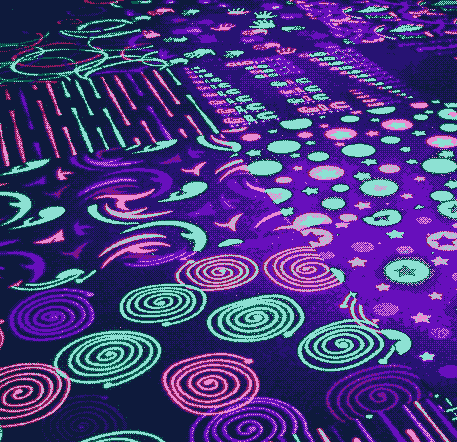
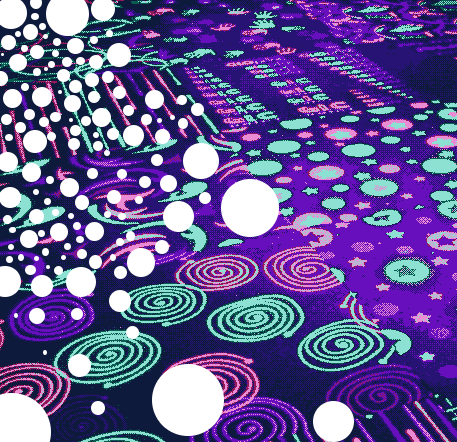
shrine idol and amazification

diff --git a/theme/chat-shrine.css b/theme/chat-shrine.css
@@ -6,21 +6,37 @@
   --color-compliment-dark: #F19181;
 }
 
+* {
+  margin: 0;
+  padding: 0;
+}
+
 html,
 body {
   color: #fff !important;
   text-align: center;
   background-color: #000;
-  background-image: url(images/chat-shrine-background.png);
+  font-size: 1.5rem;
+  line-height: 1.5rem;
+  font-family: 'Codystar';
+  background-image: url(images/chat-shrine-true-background.png);
   background-attachment: fixed;
   background-size: cover;
-  font-size: 1.5rem;
-  font-family: 'Codystar';
+}
+
+.pseudo-background {
+  min-height: 100vh;
+  width: 100%;
+  background-image: url(images/chat-shrine-background.png);
+  background-size: cover;
 }
 
 /* needs frame */
 .chat-shrine-container {
   background-image: url(images/chat-shrine-frame.png);
+  position: relative;
+  z-index: 0;
+
   width: 600px;
   height: 450px;
 
@@ -28,10 +44,20 @@ body {
   padding: 40px;
 
   box-shadow: 10px 10px 10px #8de1d3;
+
+}
+
+.chat-shrine-idol {
+  opacity: 0.8;
+  position: fixed;
+  bottom: 0;
+  right: 0;
+  z-index: 0;
 }
 
 .chat-shrine-container::after {
   /* gif loop of static to overlay */
+  z-index: 8888888;
   content: ' ';
   display: block;
   background-size: cover;
@@ -63,6 +89,19 @@ ul li {
   display: inline-block;
 }
 
+p::before {
+  content: ' ';
+  display: block;
+}
+
 p {
   background: rgba(0, 0, 0, 0.8);
+  position: relative;
+  z-index: 1;
+  display: block;
+  padding: 3rem 40px;
+  margin-left: auto;
+  margin-right: auto;
+  margin-top: 1.5rem;
+  width: 600px;
 }

diff --git a/_src/templates/chat-shrine.html b/_src/templates/chat-shrine.html
@@ -11,16 +11,20 @@
 </head>
 <body>
 
-<ul>
-  <li><a href="/index.html">home/back</a></li>
-  <li><a href="http://staticfuzz.com/">use memories</a></li>
-</ul>
+<div class="pseudo-background">
+  <ul>
+    <li><a href="/index.html">home/back</a></li>
+    <li><a href="http://staticfuzz.com/">use memories</a></li>
+  </ul>
 
-<div class="chat-shrine-container">
-  <iframe class="chat-shrine-iframe" src="https://kiwiirc.com/client/irc.freenode.net/?nick=princess|?&theme=mini#lillian.link" style="border:0; width:100%; height:450px;"></iframe>
+  <div class="chat-shrine-container">
+    <iframe class="chat-shrine-iframe" src="https://kiwiirc.com/client/irc.freenode.net/?nick=princess|?&theme=mini#lillian.link" style="border:0; width:100%; height:450px;"></iframe>
+  </div>
+
+  <p><strong>This cycle's meditation:</strong> Gaze toward Eastern Star and meditate three moon cycles on the third level.</p>
+
+  <img src="/theme/images/chat-shrine-hermaphroditus.png" alt="Shrine Idol Hermaphroditus" id="chat-shrine-idol" class="chat-shrine-idol">
 </div>
-
-<p><strong>This cycle's meditation:</strong> Gaze toward Eastern Star and meditate three moon cycles on the third level.</p>
 
 <script type="text/javascript">
   // Do/change stuff based on time of day

diff --git a/chat-shrine.html b/chat-shrine.html
@@ -11,16 +11,20 @@
 </head>
 <body>
 
-<ul>
-  <li><a href="/index.html">home/back</a></li>
-  <li><a href="http://staticfuzz.com/">use memories</a></li>
-</ul>
+<div class="pseudo-background">
+  <ul>
+    <li><a href="/index.html">home/back</a></li>
+    <li><a href="http://staticfuzz.com/">use memories</a></li>
+  </ul>
 
-<div class="chat-shrine-container">
-  <iframe class="chat-shrine-iframe" src="https://kiwiirc.com/client/irc.freenode.net/?nick=princess|?&theme=mini#lillian.link" style="border:0; width:100%; height:450px;"></iframe>
+  <div class="chat-shrine-container">
+    <iframe class="chat-shrine-iframe" src="https://kiwiirc.com/client/irc.freenode.net/?nick=princess|?&theme=mini#lillian.link" style="border:0; width:100%; height:450px;"></iframe>
+  </div>
+
+  <p><strong>This cycle's meditation:</strong> Gaze toward Eastern Star and meditate three moon cycles on the third level.</p>
+
+  <img src="/theme/images/chat-shrine-hermaphroditus.png" alt="Shrine Idol Hermaphroditus" id="chat-shrine-idol" class="chat-shrine-idol">
 </div>
-
-<p><strong>This cycle's meditation:</strong> Gaze toward Eastern Star and meditate three moon cycles on the third level.</p>
 
 <script type="text/javascript">
   // Do/change stuff based on time of day

diff --git a/blog.html b/blog.html
@@ -50,9 +50,9 @@
   <p>
     Categories:
     
-    <a href="/blog/cats">cats</a>
-    
     <a href="/blog/some-category">some-category</a>
+    
+    <a href="/blog/cats">cats</a>
     
   </p>
 
